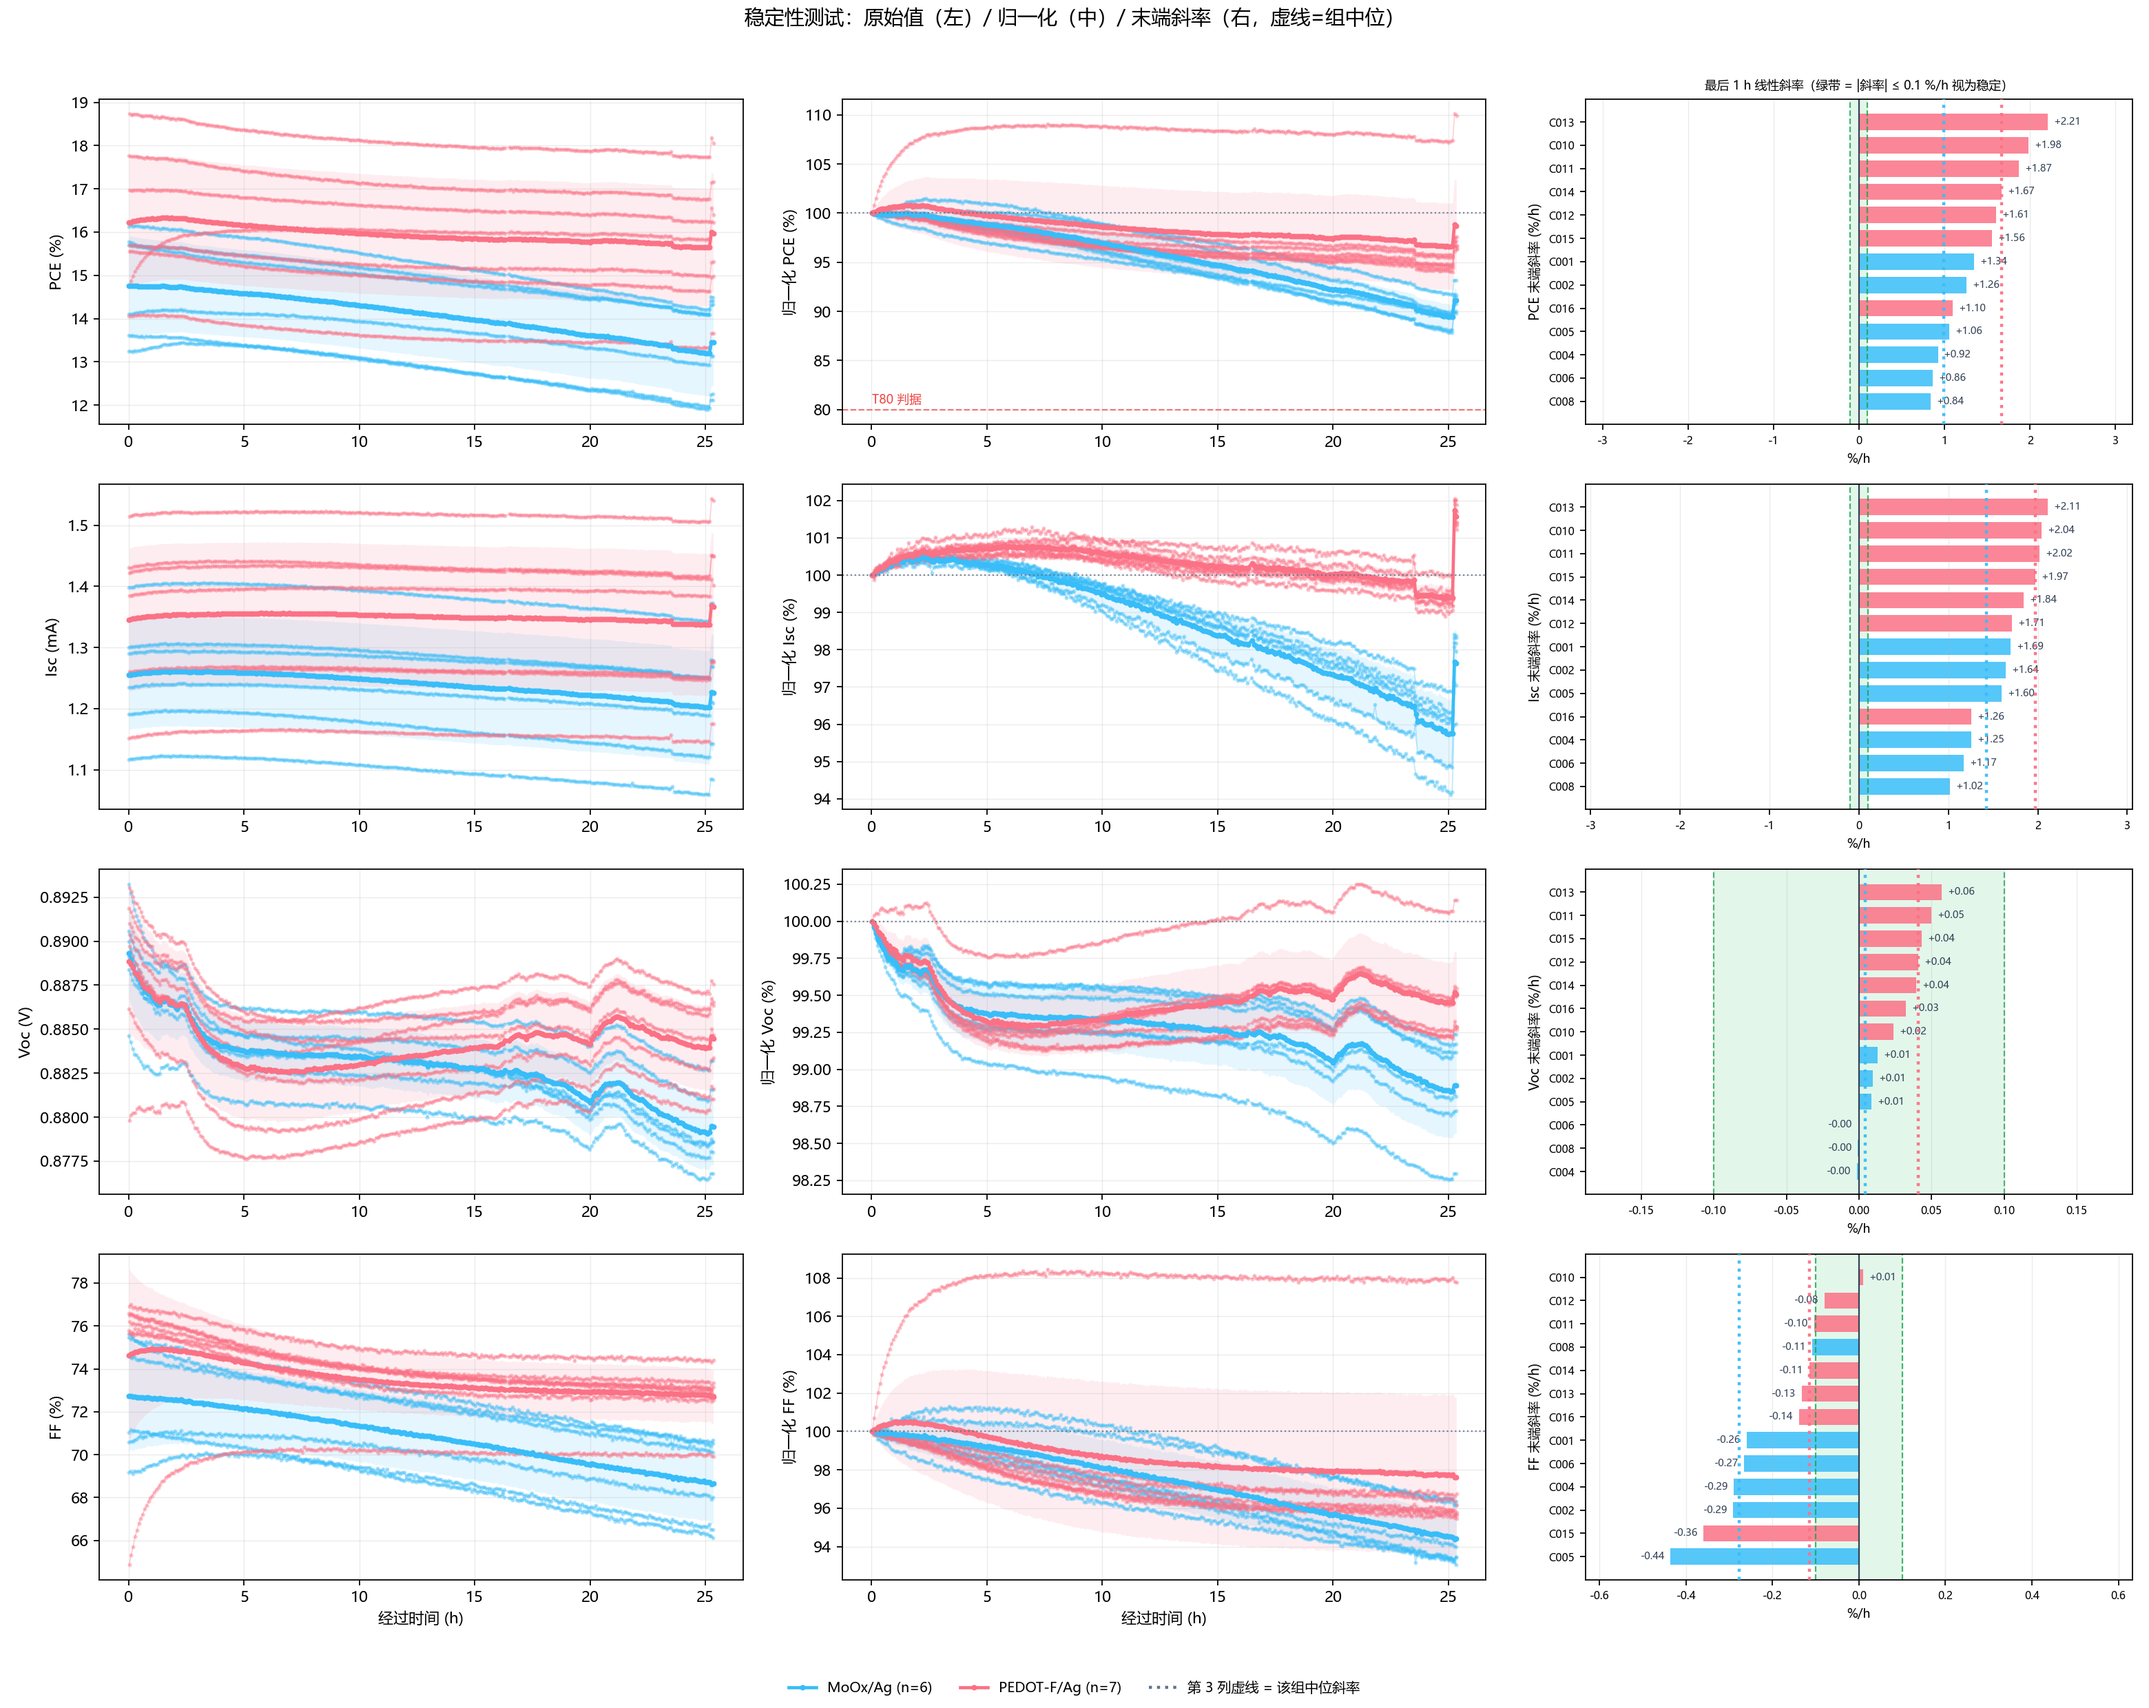
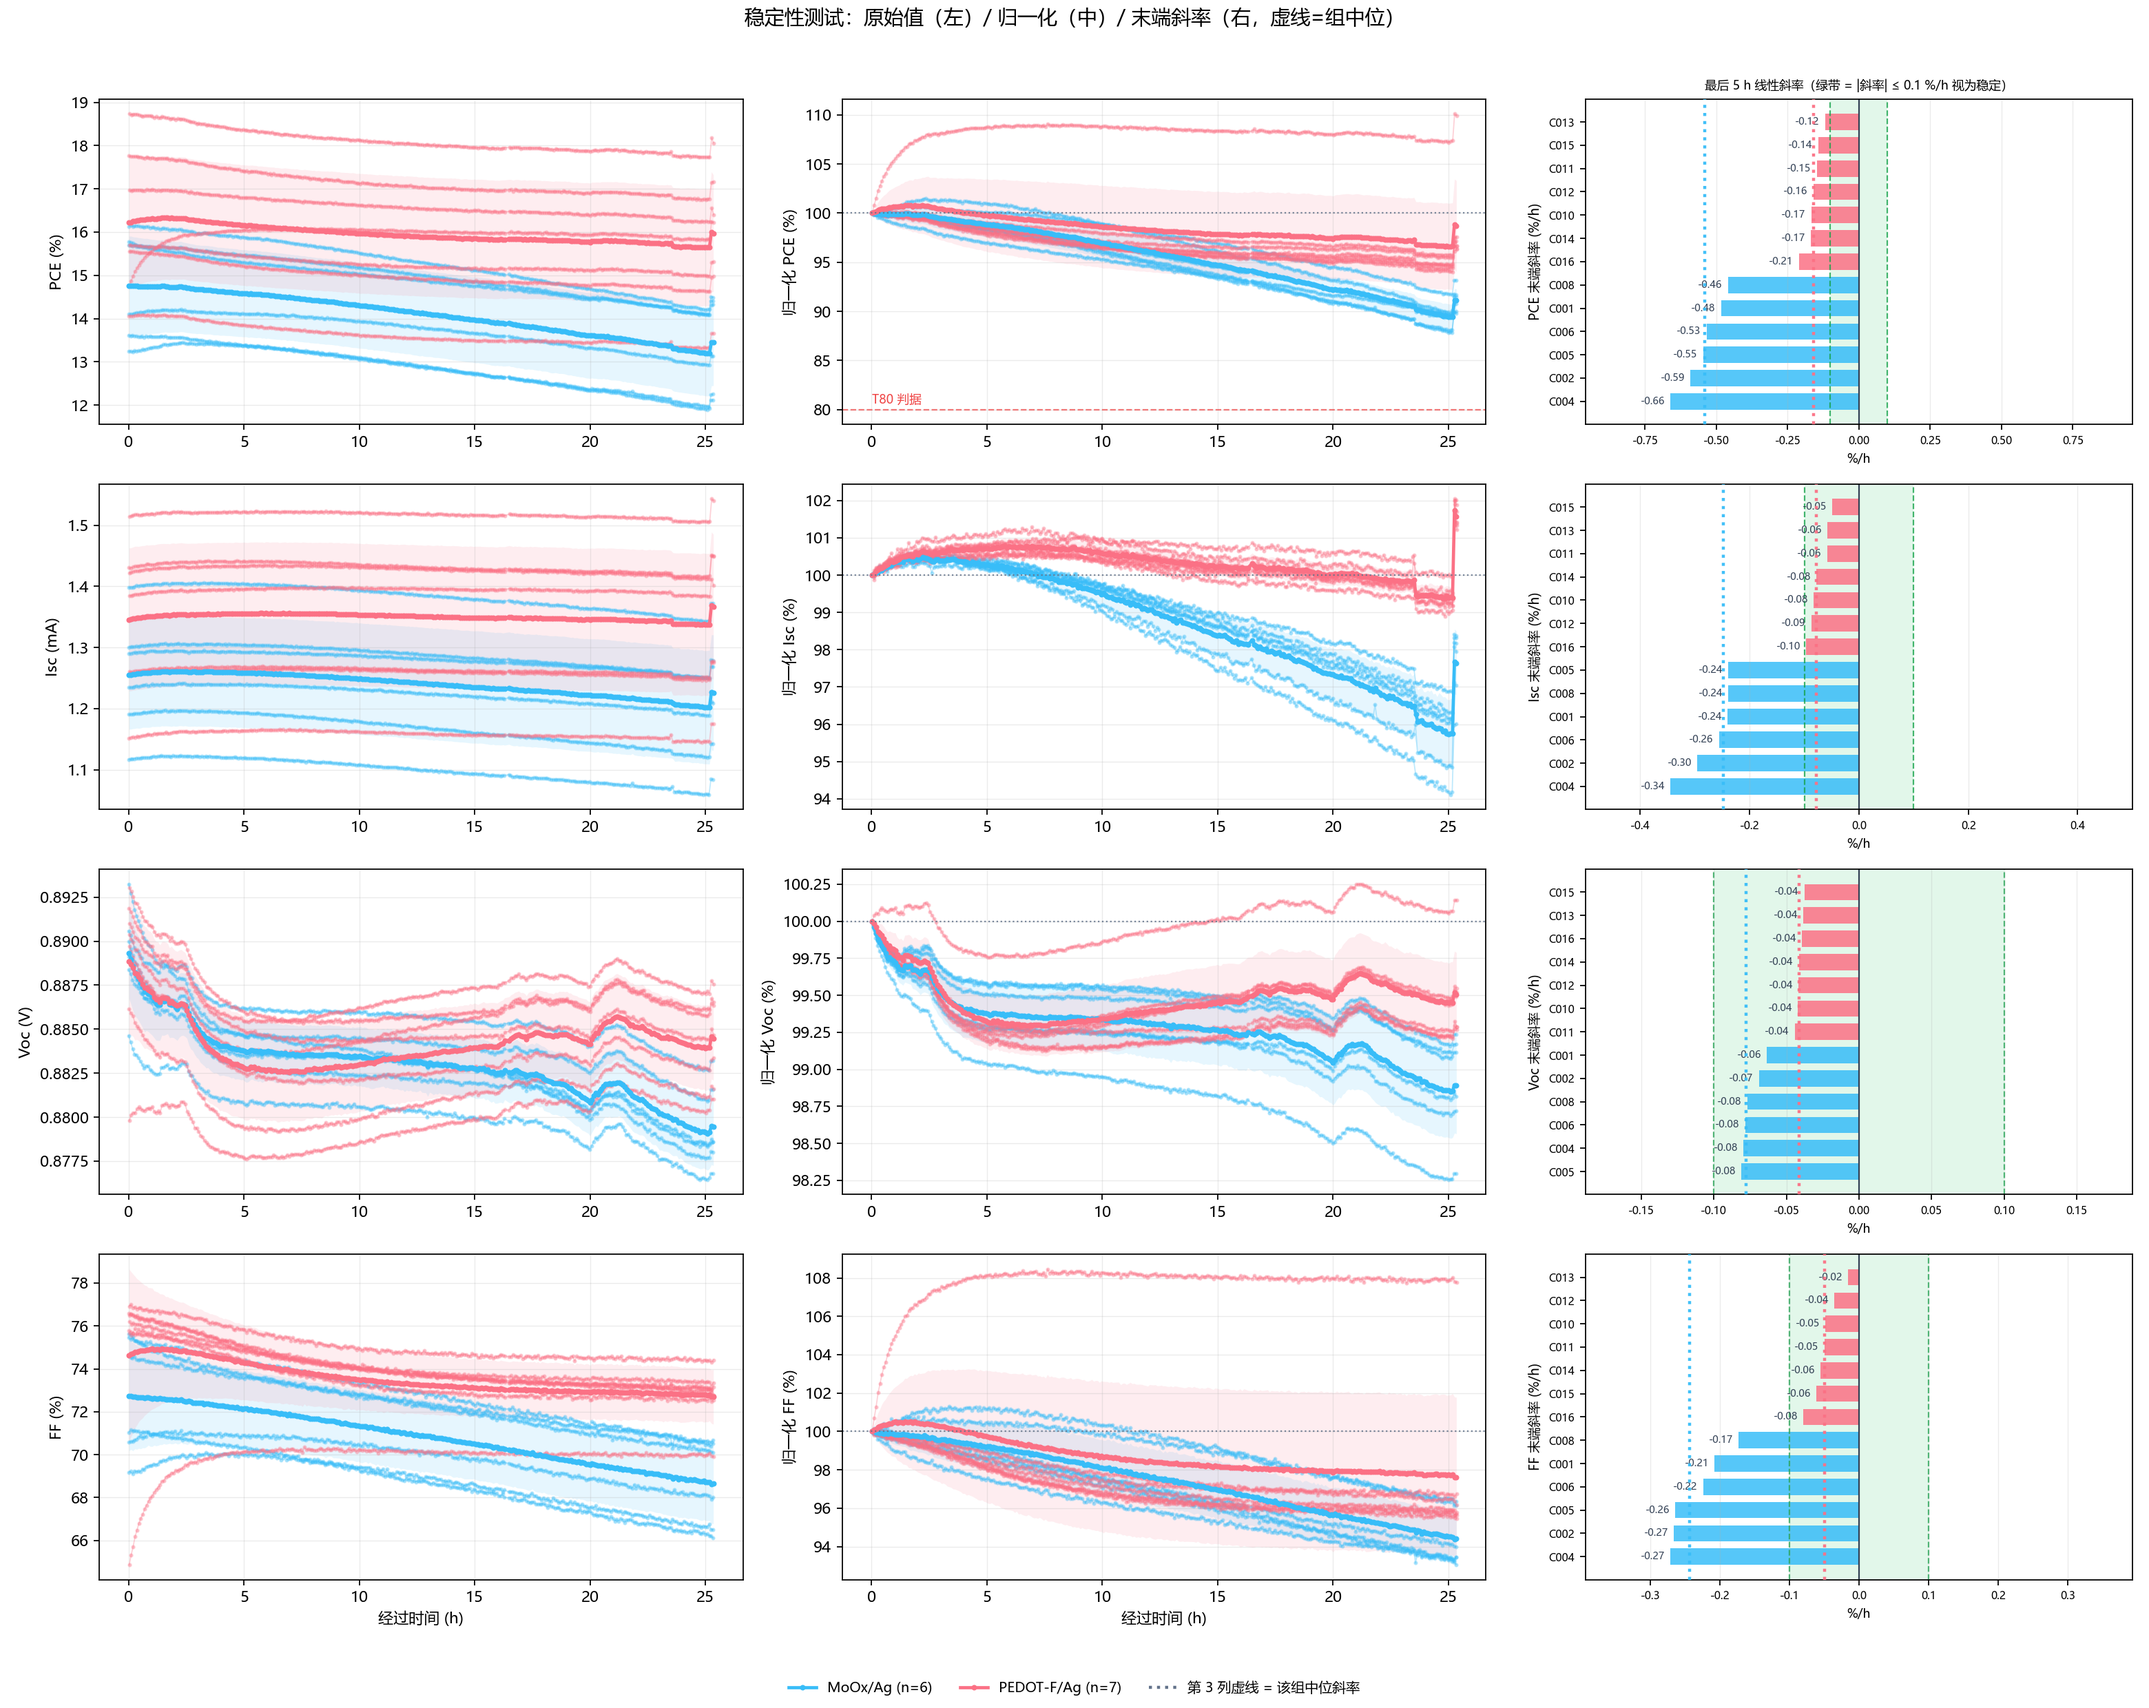
更新 indoor 数据快照

Changed region(s): [[0.7772, 0.2794, 0.9638, 0.7141], [0.7772, 0.0621, 0.9638, 0.2484], [0.7772, 0.7141, 0.9016, 0.9315]]

diff --git a/indoor/stability_report.py b/indoor/stability_report.py
@@ -126,7 +126,7 @@ DEFAULT_SUNS = 0.55         # 名义光强（sun）；实际测试用 0.55 sun =
 DEFAULT_ROUND_GAP = 60.0    # s，相邻测量时间间隔超过它就算新的一轮
 DEFAULT_MIN_AGE = 2.0       # s，文件修改距今小于该值则视为"可能正在写"，跳过
 DEFAULT_BASELINE = "first-round"   # first-round | firstN:<n> | best
-DEFAULT_TAIL_HOURS = 1.0      # 末端斜率窗口（最后 N 小时）
+DEFAULT_TAIL_HOURS = 5.0      # 末端斜率窗口（最后 N 小时）
 DEFAULT_STABLE_SLOPE = 0.10   # %/h，|末端斜率| 小于它视为"已稳定"
 DEFAULT_REPORT_DIR = "REPORT"     # 默认输出到 <数据目录>/REPORT（软件只写 MEAS/ 与 STAT/，不冲突）
 
@@ -668,11 +668,32 @@ def slope_per_hour(series: list[tuple[float, float]]) -> float:
 
 
 def window_slope(series: list[tuple[float, float]], t_end: float, hours: float) -> tuple[float, int]:
-    """serie 的末端窗口斜率 (%/h) 与参与点数。serie = [(t_h, 归一化值)]。"""
+    """serie 的末端窗口斜率 (%/h) 与参与点数。serie = [(t_h, 归一化值)]。
+
+    斜率由窗口内全部点做最小二乘线性拟合（np.polyfit 一次项）。
+    """
     rows = sorted(r for r in series if r[0] >= t_end - hours)
     if len(rows) < 3:
         return float("nan"), len(rows)
     return slope_per_hour(rows), len(rows)
+
+
+def window_fit(series: list[tuple[float, float]], t_end: float,
+               hours: float) -> tuple[float, float, int]:
+    """同一个线性拟合的 (斜率 %/h, R², 点数)，R² 用来判断线性拟合是否可靠。"""
+    rows = sorted(r for r in series if r[0] >= t_end - hours)
+    if len(rows) < 3:
+        return float("nan"), float("nan"), len(rows)
+    t = np.array([s[0] for s in rows])
+    y = np.array([s[1] for s in rows])
+    if t.max() - t.min() < 1e-9:
+        return float("nan"), float("nan"), len(rows)
+    k, b = np.polyfit(t, y, 1)
+    resid = y - (k * t + b)
+    ss_res = float(np.sum(resid ** 2))
+    ss_tot = float(np.sum((y - y.mean()) ** 2))
+    r2 = 1.0 - ss_res / ss_tot if ss_tot > 0 else float("nan")
+    return float(k), r2, len(rows)
 
 
 def _is_stable(slope: float, threshold: float) -> bool:
@@ -1430,23 +1451,28 @@ def make_report(out_dir, data_dir, args, points, stats, round_infos, summaries,
     thr = args.stable_slope
     L.append("")
     L.append("-" * 78)
-    L.append(f"末端稳定性：最后 {win:g} h 的线性斜率（%/h，判据 |斜率| ≤ {thr:g} %/h 视为稳定）")
+    L.append(f"末端稳定性：最后 {win:g} h 的线性拟合斜率（最小二乘，%/h，判据 |斜率| ≤ {thr:g} %/h 视为稳定）")
     L.append("-" * 78)
-    L.append(" 片     组别        PCE斜率   Isc斜率   Voc斜率   FF斜率    PCE稳定")
+    # 尾窗边界（全片共用同一末端时刻）
+    t0_all = min(p.ts for p in points) if points else None
+    t_end_h = ((max(p.ts for p in points) - t0_all).total_seconds() / 3600.0) if points else 0.0
+    L.append(" 片     组别        PCE斜率   Isc斜率   Voc斜率   FF斜率     R²  点数  稳定")
     stable_cnt = 0
     for cell in cells:
         m = metrics.get(cell)
         if not m or m["n_valid"] == 0:
             continue
         t = m["tail"]
-        p_slope = t["pce_slope_tail"][0]
-        ok = _is_stable(p_slope, thr)
+        p_slope, r2, nfit = window_fit(m["series_by"]["pce"], t_end_h, win)
+        ok = _is_stable(t["pce_slope_tail"][0], thr)
         stable_cnt += int(ok)
         L.append(f"{cell}  {group_short(m['group']):<12}"
-                 f"{fmt(p_slope, 3):>8}  {fmt(t['isc_slope_tail'][0], 3):>8}  "
+                 f"{fmt(t['pce_slope_tail'][0], 3):>8}  {fmt(t['isc_slope_tail'][0], 3):>8}  "
                  f"{fmt(t['voc_slope_tail'][0], 3):>8}  {fmt(t['ff_slope_tail'][0], 3):>8}"
-                 f"   {'是' if ok else '否'}")
+                 f"  {fmt(r2, 3):>5}  {nfit:>4}   {'是' if ok else '否'}")
     L.append("")
+    L.append("  R² 为 PCE 归一化值对时间的线性拟合决定系数（1 最优）；"
+             "< 0.30 说明窗口内被光强跳变/噪声主导，斜率不可信。")
     for name in sorted({m['group'] for m in metrics.values() if m['n_valid']}):
         vals = [metrics[c]["tail"]["pce_slope_tail"][0] for c in cells
                 if metrics.get(c) and metrics[c]["n_valid"] and metrics[c]["group"] == name]
@@ -1457,11 +1483,9 @@ def make_report(out_dir, data_dir, args, points, stats, round_infos, summaries,
 
     # 尾窗内光源跳变提示：单轮中位 Isc 突变会把末端斜率直接带走，必须显式告警
     if points and round_infos:
-        t0 = min(p.ts for p in points)
-        t_end_h = (max(p.ts for p in points) - t0).total_seconds() / 3600.0
         win_rounds = [r for r in round_infos
                       if r["median_isc"] == r["median_isc"]
-                      and (r["start"] - t0).total_seconds() / 3600.0 >= t_end_h - win]
+                      and (r["start"] - t0_all).total_seconds() / 3600.0 >= t_end_h - win]
         win_rounds.sort(key=lambda r: r["start"])
         jumps = []
         for prev, cur in zip(win_rounds, win_rounds[1:]):
